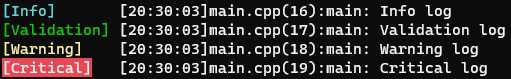
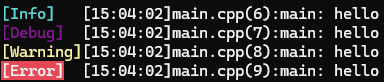
Refactor LogSystem (only .hpp file + new LOG macro)

diff --git a/Log.hpp b/Log.hpp
@@ -3,36 +3,128 @@
 #include <filesystem>
 #include <fstream>
 #include <string>
+#include <iostream>
+#include <Windows.h>
+#include <debugapi.h>
+#include <format>
+#include <chrono>
 
-enum class LogLevel : unsigned int
+namespace Log
 {
-	Info,
-	Validation,
-	Warning,
-	Critical,
-};
+    enum class Level : unsigned int
+    {
+	    Info,
+	    Debug,
+	    Warning,
+	    Error,
+    };
 
-class Log
-{
-	// Attributes
-private:
-	static std::ofstream logFile;
-
-	// Methods
-public:
-	static void OpenFile(const std::filesystem::path& p_filename);
-	static void CloseFile();
-
-	static void Print(const std::string& p_log, const LogLevel& p_logLevel);
-};
-
-void DebugLog(const std::string& p_filename, const unsigned int p_line, const std::string& p_functionName, const std::string p_log, const LogLevel& p_logLevel);
+    void DebugLog(const std::string& filename, const unsigned int line, const std::string& functionName, const std::string& log, const Level logLevel);
+}
 
 #define __FILENAME__ (strrchr(__FILE__, '\\') ? strrchr(__FILE__, '\\') + 1 : __FILE__)
-#define LOG(p_log, p_logLevel) DebugLog(__FILENAME__, __LINE__, __func__, p_log, p_logLevel);
+
+#define LOG_INFO(log) Log::DebugLog(__FILENAME__, __LINE__, __func__, log, Log::Level::Info);
+#define LOG_DEBUG(log) Log::DebugLog(__FILENAME__, __LINE__, __func__, log, Log::Level::Debug);
+#define LOG_WARNING(log) Log::DebugLog(__FILENAME__, __LINE__, __func__, log, Log::Level::Warning);
+#define LOG_ERROR(log) Log::DebugLog(__FILENAME__, __LINE__, __func__, log, Log::Level::Error);
 
 #ifdef DEBUG
-	#define Assertion(p_expression, p_log) if(!(p_expression)) { LOG(p_log, LogLevel::Critical); __debugbreak(); }
+#define Assertion(expression, log) if(!(expression)) { LOG_ERROR(log); __debugbreak(); }
 #else
-	#define Assertion(p_expression, p_log) if(!(p_expression)) { LOG(p_log, LogLevel::Critical); abort(); }
+#define Assertion(expression, log) if(!(expression)) { LOG_ERROR(log); abort(); }
 #endif
+
+namespace Log
+{
+    static inline std::ofstream m_logFile;
+
+	static void OpenFile(const std::filesystem::path& filename)
+	{
+		if (m_logFile && m_logFile.is_open())
+		{
+            DebugLog(__FILENAME__, __LINE__, __func__, "Log file already open", Level::Warning); // Appel direct
+            return;
+		}
+
+		m_logFile.open(filename, std::ios::out);
+		if (!m_logFile)
+		{
+            DebugLog(__FILENAME__, __LINE__, __func__, "Fail to open log file " + filename.string(), Level::Warning); // Appel direct
+            return;
+		}
+		else
+		{
+            DebugLog(__FILENAME__, __LINE__, __func__, "Open log file " + filename.string(), Level::Info); // Appel direct
+        }
+	}
+
+	static void CloseFile()
+	{
+		m_logFile.close();
+        DebugLog(__FILENAME__, __LINE__, __func__, "Close log file", Level::Info); // Appel direct
+    }
+
+    static void Print(const std::string& log, const Level& logLevel)
+    {
+        HANDLE handle = GetStdHandle(STD_OUTPUT_HANDLE);
+        std::string logWithLogLevel;
+
+        switch (logLevel)
+        {
+        case Level::Info:
+        {
+            SetConsoleTextAttribute(handle, 11); // texte in blue
+            std::cout << "[Info]   ";
+            SetConsoleTextAttribute(handle, 15); // texte in white (default)
+            std::cout << log << std::endl;
+            logWithLogLevel = "[Info] " + log + '\n';
+            break;
+        }
+
+        case Level::Debug:
+        {
+            SetConsoleTextAttribute(handle, 05); // texte in green
+            std::cout << "[Debug]  ";
+            SetConsoleTextAttribute(handle, 15); // texte in white (default)
+            std::cout << log << std::endl;
+            logWithLogLevel = "[Debug] " + log + '\n';
+            break;
+        }
+
+        case Level::Warning:
+            SetConsoleTextAttribute(handle, 14); // texte in yellow
+            std::cout << "[Warning]";
+            SetConsoleTextAttribute(handle, 15); // texte in white (default)
+            std::cout << log << std::endl;
+            logWithLogLevel = "[Warning] " + log + '\n';
+            break;
+
+        case Level::Error:
+            SetConsoleTextAttribute(handle, 207); // background in red, texte in white
+            std::cout << "[Error]";
+            SetConsoleTextAttribute(handle, 15); // texte in white (default)
+            std::cout << "  " + log << std::endl;
+            logWithLogLevel = "[Error] " + log + '\n';
+            break;
+
+        default:
+            std::cout << log << std::endl;;
+            logWithLogLevel = log + '\n';
+            break;
+        }
+
+        if (m_logFile.is_open())
+        {
+            m_logFile << logWithLogLevel;
+        }
+    }
+
+    void DebugLog(const std::string& filename, const unsigned int line, const std::string& functionName, const std::string& log, const Level logLevel)
+    {
+        std::string time = std::format("{:%T}", floor<std::chrono::seconds>(std::chrono::system_clock::now()));
+        std::string message = "[" + time + "]" + filename + '(' + std::to_string(line) + "):" + functionName + ": " + log;
+        OutputDebugStringA(message.c_str());
+        Print(message, logLevel);
+    }
+}

diff --git a/README.md b/README.md
@@ -1,10 +1,10 @@
 # Log System
-Log system write in C++
+Log system write in C++ (console & file)
 
 ## Table of Content
 - [Add to your project](#add-to-your-project)
 - [Functionnality](#functionnality)
-- [Technologie](#techonologie)
+- [Requirement](#requirement)
 - [Credit](#credit)
 
 ## Add to your project
@@ -12,13 +12,15 @@ Log system write in C++
 $git submodule add git@github.com:Vincent-Devine/Log_System.git
 ```
 
+Include ```Log.hpp``` in your files.
+
 ## Functionnality
 ### Write log on file
 ```cpp
 #include "Log.hpp"
 
 // Start of your program
-Log::OpenFile("logfile.txt");
+Log::OpenFile("log.txt");
 
 // ...
 
@@ -27,14 +29,19 @@ Log::CloseFile();
 ```
 
 ### Logging
-Call define ```LOG``` to write to the log file and console the log message with log level, date, file, line and function.
+Call macro ```LOG_INFO```, ```LOG_DEBUG```, ```LOG_WARNING``` or ```LOG_ERROR``` to write your log to the console and your file (if you've opened it before).<br>
+The log message is preceded by the log level, the time, the file, the line and the function in which th log was called.
 ```cpp
 #include "Log.hpp"
 
-LOG("Info log", LogLevel::Info);
-LOG("Validation log", LogLevel::Validation);
-LOG("Warning log", LogLevel::Warning);
-LOG("Critical log", LogLevel::Critical);
+int main()
+{
+    LOG_INFO("hello");
+    LOG_DEBUG("hello");
+    LOG_WARNING("hello");
+    LOG_ERROR("hello");
+    // ...
+}
 ```
 
 Result: <br>
@@ -47,8 +54,9 @@ Result: <br>
 Assertion(true, "gg, true == true");
 ```
 
-## Technologie
-- **C++ 20**
+## Requirement
+- C++ 20
+- Windows system
 
 ## Credit
 Vincent DEVINE
